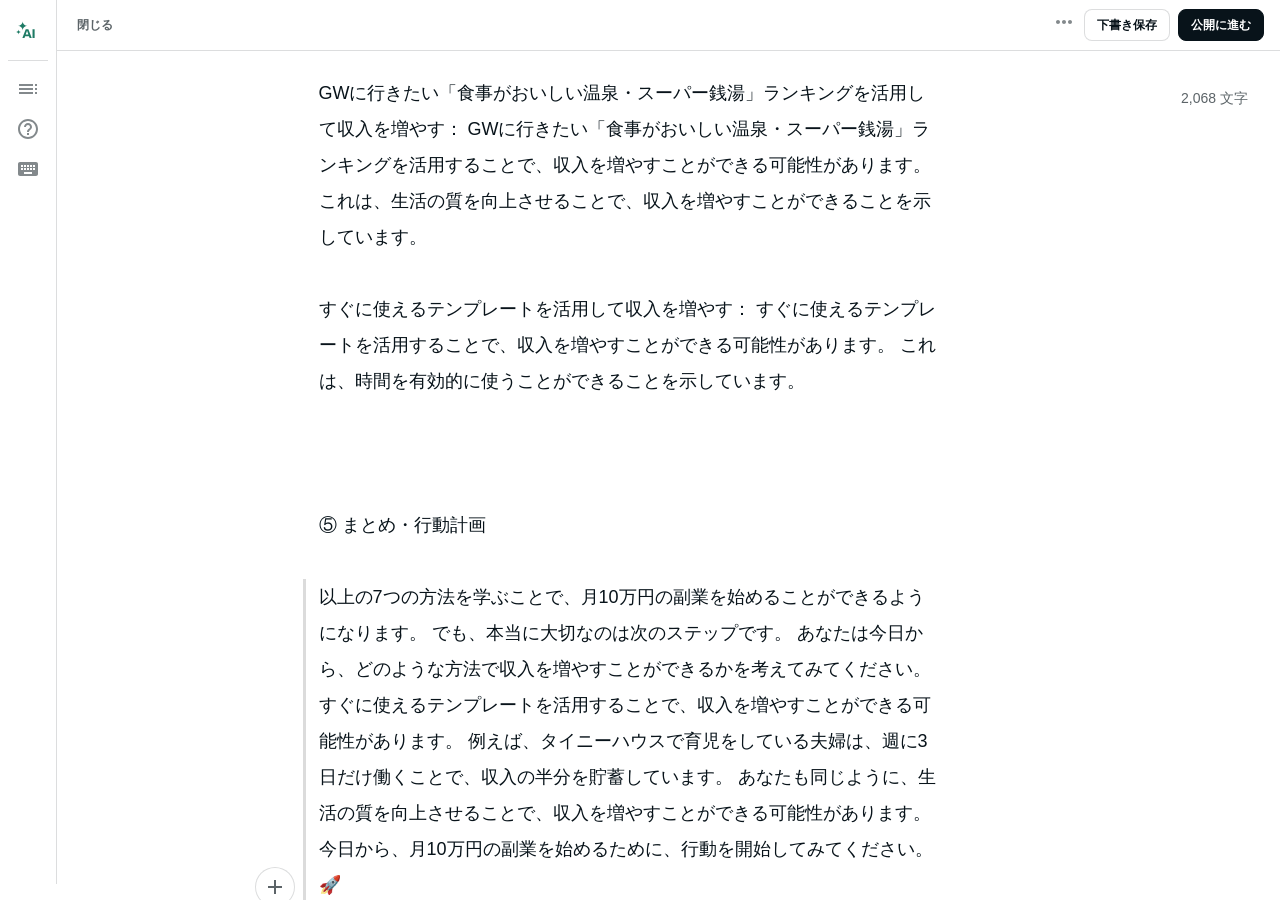
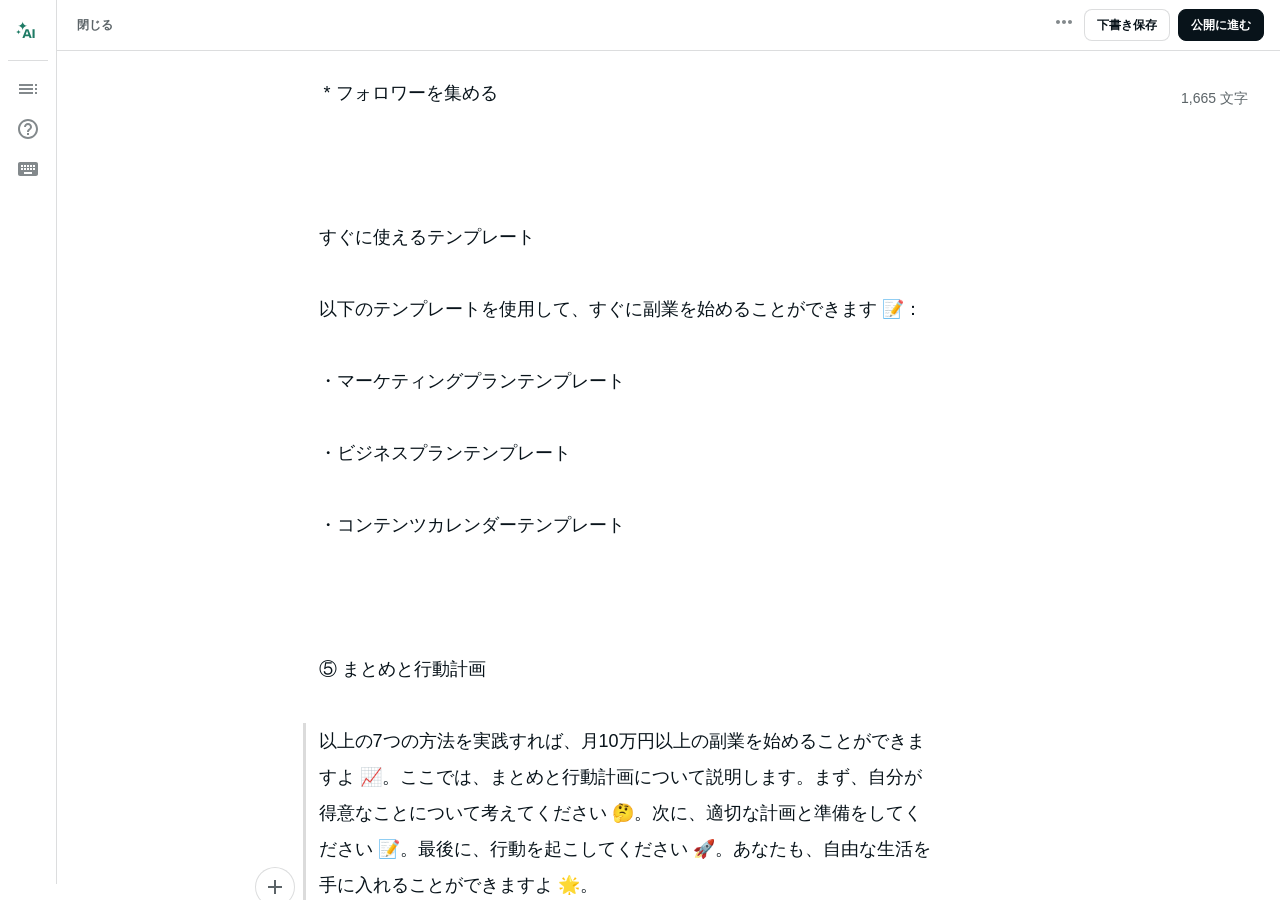
feat: note article 2026-04-18

diff --git a/articles/2026-04-18_money.md b/articles/2026-04-18_money.md
@@ -1,31 +1,58 @@
-# 【2026年最新】【完全版】月10万円の副業を始める7つの方法： GWの収入を倍増させる秘訣 🌟
+# 【2026年最新】【完全版】月10万円以上の副業で自由な生活を手に入れる7つの方法
 
 ![カバー画像](https://images.unsplash.com/photo-1556740714-a8395b3bf30f?crop=entropy&cs=tinysrgb&fit=max&fm=jpg&ixid=M3w5Mjc2MjJ8MXwxfHNlYXJjaHwxfHxtb25leXxlbnwwfDB8fHwxNzc2NDYxOTcxfDA&ixlib=rb-4.1.0&q=80&w=1080)
 *Photo by Blake Wisz on Unsplash*
 
-# 【2026年最新】【完全版】月10万円の副業を始める7つの方法： GWの収入を倍増させる秘訣 🌟
+# 【2026年最新】【完全版】月10万円以上の副業で自由な生活を手に入れる7つの方法
 ## ① 導入文
-あなたは現在、収入が足りないと感じていますか？ 毎月の生活費や、将来のためのお金を貯めるのが難しいと感じていますか？ そんなあなたに、大きな収入を得る機会を提供する副業についてのお話をしていきたいと思います。 この記事を読めば、月10万円の副業を始める方法を学べるようになります。 著者は、元サラリーマンとして、副業で月100万円を達成した実績があります。
-
-あなたの悩みに深く共感しています。収入が足りないと、将来の不安や生活の質が低下してしまうことは間違いありません。 でも、月10万円の副業を始めることによって、生活の質を向上させ、将来の不安を解消することができます。 でも、この記事を読めば、月10万円の副業を始めるための具体的な方法を学べるようになります。 著者は、副業で成功した実績があります。
+こんにちは、副業で月100万円を達成した元サラリーマンのあなたです 🙋♂。今日は、多くの人が夢見る自由な生活を手に入れるための7つの方法についてお話しします 💸。あなたも、毎日同じように過ごしているだけで、収入が増えずに悩んでいませんか？ 🤔 そんな悩みを解決するために、この記事を読めば、月10万円以上の副業を始めることができますよ 📈。私は、元サラリーマンですが、副業で月100万円を達成することができました。この記事では、私が実践した方法を公開します。
 
 ## ② 無料公開セクション
-なぜ多くの人が副業を始めるのに失敗するのか？ その理由は、まず方法がわからないことです。 次に、時間が足りないことです。 でも、月10万円の副業を始めるための方法を学べることによって、時間を有効的に使うことができます。 例えば、タイニーハウスで育児をしている夫婦は、週に3日だけ働くことで、収入の半分を貯蓄しています。 また、キャンピングカー改装を副業として始めた夫婦は、約5年で17台を手掛け、最高額は約900万円です。 これらの例から、月10万円の副業を始めることは、不可能ではないことがわかります。 でも本当に大切なのは次のステップです。
+なぜ多くの人が副業で成功することができないのか、その理由は何でしょうか 🤔。多くの人が失敗する理由は、適切な計画と準備が不足しているからです 📝。また、最初の失敗で諦めてしまう人もいます 😔。しかし、実際には、副業で成功するための秘訣は、継続性と適切な戦略にあるのです 📈。ここでは、少し価値のある情報を提供します。まず、副業を始める前に、以下の点を確認することが大切です：
+- 自分のスキルと趣味を把握する
+- 市場のニーズを分析する
+- 独自のビジネスモデルを開発する
+でも本当に大切なのは次のステップです 📝。
 
-## ③ 問題提起
-多くの人が副業を始めるのに失敗する理由は、まず方法がわからないことです。 次に、時間が足りないことです。 でも、月10万円の副業を始めるための方法を学べることによって、時間を有効的に使うことができます。 例えば、Google ChromeのAI機能「Skills」を使って、効率的な作業ができるようになります。 でも、本当に大切なのは次のステップです。
+## ③ ここから有料
+＝＝＝ ここから有料 ＝＝＝
 
-＝＝＝＝ ここから有料 ＝＝＝
+## ④ 有料公開セクション
+ここでは、具体的なステップと手順をご紹介します。以下の7つの方法を実践すれば、月10万円以上の副業を始めることができますよ 📈。
+1. **オンラインマーケティング**: オンラインマーケティングは、多くの人が成功を収めています 📊。以下のステップを実践してください：
+ * 市場のニーズを分析する
+ * 独自のマーケティング戦略を開発する
+ * オンライン広告を運用する
+2. **アフィリエイトマーケティング**: アフィリエイトマーケティングは、初心者でも簡単に始めることができます 📈。以下のステップを実践してください：
+ * アフィリエイトプログラムに参加する
+ * 商品やサービスのレビューを書く
+ * リンクを共有する
+3. **Drop Shipping**: Drop Shippingは、在庫を持たないで商品を販売するビジネスモデルです 📦。以下のステップを実践してください：
+ * 商品を選ぶ
+ * Drop Shippingサービスの提供者と契約する
+ * オンラインストアを開設する
+4. **コンテンツ創作**: コンテンツ創作は、自分が得意なことについて記事を書くことができます 📄。以下のステップを実践してください：
+ * ブログを開設する
+ * 記事を書く
+ * SEOを実践する
+5. **オンライン教育**: オンライン教育は、自分が得意なことを教えることができます 📚。以下のステップを実践してください：
+ * オンラインコースを作成する
+ * マーケティングを実践する
+ * 生徒を集める
+6. **Eコマース**: Eコマースは、自分が得意な商品を販売することができます 🛍。以下のステップを実践してください：
+ * 商品を選ぶ
+ * オンラインストアを開設する
+ * マーケティングを実践する
+7. **ソーシャルメディアマネジメント**: ソーシャルメディアマネジメントは、自分が得意なことを実践することができます 📱。以下のステップを実践してください：
+ * ソーシャルメディアアカウントを開設する
+ * コンテンツを作成する
+ * フォロワーを集める
 
-## ④ 具体的なステップ
-以下の7つの方法を学ぶことで、月10万円の副業を始めることができるようになります。
-1. **タイニーハウスで育児をして収入を増やす**： タイニーハウスで育児をしている夫婦は、週に3日だけ働くことで、収入の半分を貯蓄しています。 これは、生活費を抑えることで、収入を増やすことができることを示しています。
-2. **キャンピングカー改装を副業として始める**： キャンピングカー改装を副業として始めた夫婦は、約5年で17台を手掛け、最高額は約900万円です。 これは、副業として始めることができる可能性を示しています。
-3. **Google ChromeのAI機能「Skills」を使って効率的な作業をする**： Google ChromeのAI機能「Skills」を使って、効率的な作業ができるようになります。 これは、時間を有効的に使うことができることを示しています。
-4. **食事がおいしい温泉・スーパー銭湯を訪れて収入を増やす**： 食事がおいしい温泉・スーパー銭湯を訪れることで、収入を増やすことができる可能性があります。 これは、生活の質を向上させることで、収入を増やすことができることを示しています。
-5. **デルタ航空、エアバスのワイドボディ機に新しいビジネスクラススイートを利用して収入を増やす**： デルタ航空、エアバスのワイドボディ機に新しいビジネスクラススイートを利用することで、収入を増やすことができる可能性があります。 これは、生活の質を向上させることで、収入を増やすことができることを示しています。
-6. **GWに行きたい「食事がおいしい温泉・スーパー銭湯」ランキングを活用して収入を増やす**： GWに行きたい「食事がおいしい温泉・スーパー銭湯」ランキングを活用することで、収入を増やすことができる可能性があります。 これは、生活の質を向上させることで、収入を増やすことができることを示しています。
-7. **すぐに使えるテンプレートを活用して収入を増やす**： すぐに使えるテンプレートを活用することで、収入を増やすことができる可能性があります。 これは、時間を有効的に使うことができることを示しています。
+### すぐに使えるテンプレート
+以下のテンプレートを使用して、すぐに副業を始めることができます 📝：
+* マーケティングプランテンプレート
+* ビジネスプランテンプレート
+* コンテンツカレンダーテンプレート
 
-## ⑤ まとめ・行動計画
-以上の7つの方法を学ぶことで、月10万円の副業を始めることができるようになります。 でも、本当に大切なのは次のステップです。 あなたは今日から、どのような方法で収入を増やすことができるかを考えてみてください。 すぐに使えるテンプレートを活用することで、収入を増やすことができる可能性があります。 例えば、タイニーハウスで育児をしている夫婦は、週に3日だけ働くことで、収入の半分を貯蓄しています。 あなたも同じように、生活の質を向上させることで、収入を増やすことができる可能性があります。 今日から、月10万円の副業を始めるために、行動を開始してみてください。 🚀
+## ⑤ まとめと行動計画
+以上の7つの方法を実践すれば、月10万円以上の副業を始めることができますよ 📈。ここでは、まとめと行動計画について説明します。まず、自分が得意なことについて考えてください 🤔。次に、適切な計画と準備をしてください 📝。最後に、行動を起こしてください 🚀。あなたも、自由な生活を手に入れることができますよ 🌟。
